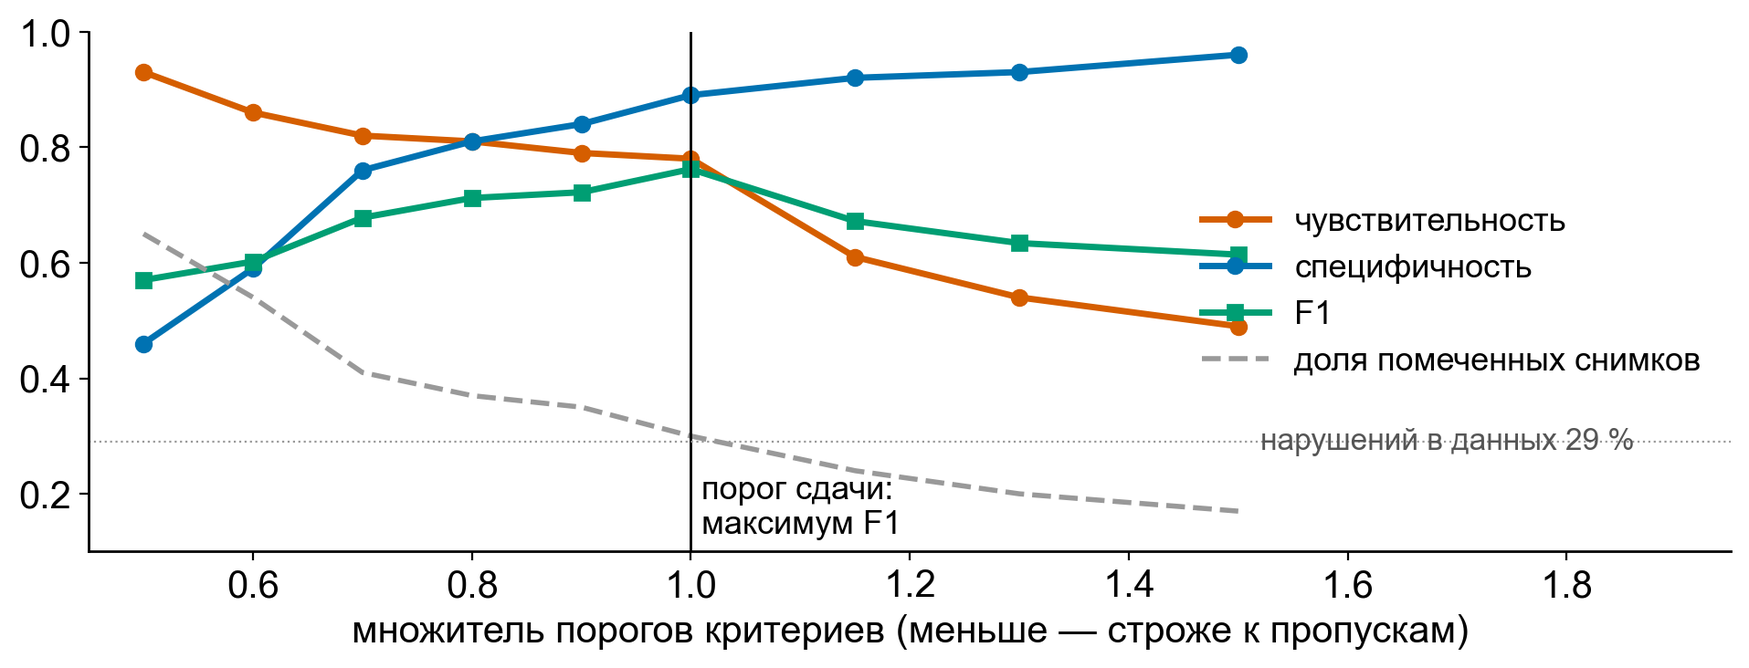
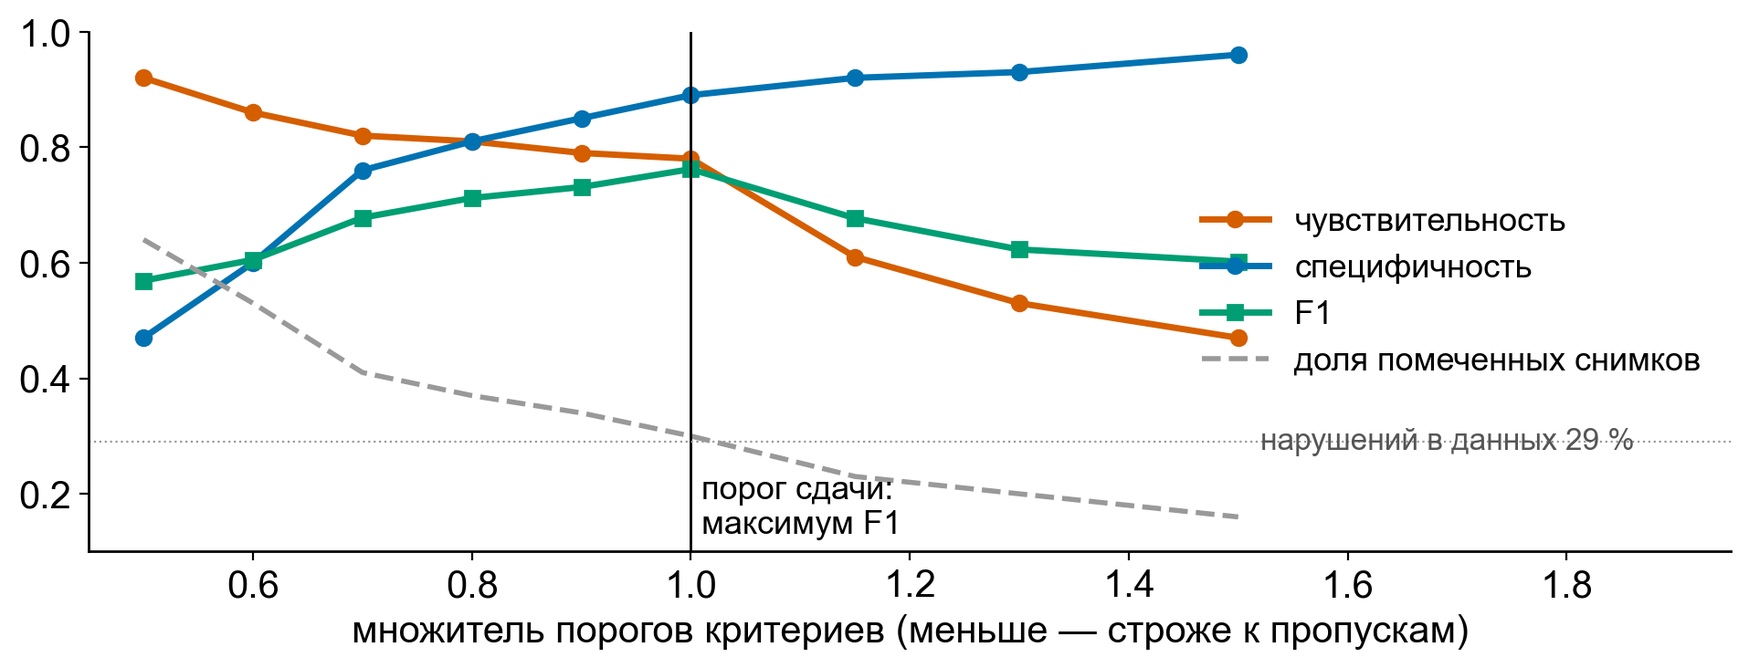
Эксп. 17: вероятность по снимку в общей шкале критериев (ROC-AUC 0,849 → 0,857), пороги в середине отрезка с наибольшим F1
- predict.aggregate: quality_prob = наибольшая вероятность критерия в шкале его порога; quality_prob ≥ 0,5 ⇔ quality_class = 1
- train_criteria.best_f1: середина отрезка порогов с наибольшим F1
- weights/criteria.json, docs/metrics.md, README, docs/08, слайды и рисунки обновлены
- проверены и отклонены: калибровка по областям, подмешивание сетей «любое нарушение», другие наборы предобучения DenseNet121

diff --git a/presentation/make_figures.py b/presentation/make_figures.py
@@ -36,14 +36,14 @@ save("data.png")
 
 # 3. сравнение вариантов модели
 fig, ax = plt.subplots(figsize=(12.2, 3.9))
-st = ["ориентиры +\nгеометрия\n+ 2 CNN", "+ признаки\nпо картинке", "+ ансамбль CNN\nи вырезки\n(бедро)", "+ предобучение\nна object-CXR", "+ яркость\nмягких тканей", "+ карта\nпредметов", "+ DenseNet121\nс рентгено-\nграмм"]
-auc = [0.737, 0.821, 0.822, 0.830, 0.841, 0.845, 0.849]; f1 = [0.583, 0.719, 0.727, 0.740, 0.752, 0.752, 0.762]; mf = [0.535, 0.610, 0.608, 0.627, 0.649, 0.649, 0.653]
+st = ["ориентиры +\nгеометрия\n+ 2 CNN", "+ признаки\nпо картинке", "+ ансамбль CNN\nи вырезки\n(бедро)", "+ предобучение\nна object-CXR", "+ яркость\nмягких тканей", "+ карта\nпредметов", "+ DenseNet121\nс рентгено-\nграмм", "+ общая\nшкала\nкритериев"]
+auc = [0.737, 0.821, 0.822, 0.830, 0.841, 0.845, 0.849, 0.857]; f1 = [0.583, 0.719, 0.727, 0.740, 0.752, 0.752, 0.762, 0.762]; mf = [0.535, 0.610, 0.608, 0.627, 0.649, 0.649, 0.653, 0.653]
 x = np.arange(len(st))
 for v, c, n in ((auc, OURS, "ROC-AUC"), (f1, LIT, "F1"), (mf, GREEN, "macro-F1 по 5 типам")):
     ax.plot(x, v, "-o", color=c, lw=2.5, ms=8, label=n)
     ax.text(x[-1] + 0.12, v[-1], f"{v[-1]:.2f}".replace(".", ","), color=c, va="center", fontsize=15, fontweight="bold")
     ax.text(x[0] - 0.12, v[0], f"{v[0]:.2f}".replace(".", ","), color=c, va="center", ha="right", fontsize=14)
-ax.set_xticks(x); ax.set_xticklabels(st, fontsize=11.5); ax.set_ylim(0.5, 0.9); ax.set_xlim(-0.6, 6.7); ax.legend(frameon=False, loc="lower right", fontsize=14, ncol=3)
+ax.set_xticks(x); ax.set_xticklabels(st, fontsize=11.5); ax.set_ylim(0.5, 0.9); ax.set_xlim(-0.6, 7.7); ax.legend(frameon=False, loc="lower right", fontsize=14, ncol=3)
 ax.set_ylabel("значение метрики")
 save("progress.png")
 
@@ -60,7 +60,7 @@ save("forest.png")
 # 5. бинарные метрики
 fig, ax = plt.subplots(figsize=(11.8, 3.9))
 m = ["ROC-AUC", "PR-AUC", "F1", "Accuracy", "Balanced accuracy", "Чувствительность", "Специфичность"]
-v = [0.849, 0.710, 0.762, 0.859, 0.835, 0.778, 0.893]; lo = [0.782, 0.587, 0.680, 0.820, 0.786, 0.690, 0.847]; hi = [0.906, 0.842, 0.832, 0.899, 0.884, 0.869, 0.935]
+v = [0.857, 0.718, 0.762, 0.859, 0.835, 0.778, 0.893]; lo = [0.802, 0.598, 0.680, 0.820, 0.786, 0.690, 0.847]; hi = [0.907, 0.843, 0.832, 0.899, 0.884, 0.869, 0.935]
 y = np.arange(len(m))[::-1]
 ax.errorbar(v, y, xerr=[np.array(v) - np.array(lo), np.array(hi) - np.array(v)], fmt="s", color=OURS, ecolor=OURS, elinewidth=2.5, capsize=5, ms=9)
 for yi, ai, l, h in zip(y, v, lo, hi): ax.text(1.01, yi, f"{ai:.3f} [{l:.3f}; {h:.3f}]".replace(".", ","), va="center", fontsize=14)
@@ -91,7 +91,7 @@ save("tried.png")
 
 # 8. порог
 fig, ax = plt.subplots(figsize=(11.6, 3.7))
-k = [0.5, 0.6, 0.7, 0.8, 0.9, 1.0, 1.15, 1.3, 1.5]; sens = [0.93, 0.86, 0.82, 0.81, 0.79, 0.78, 0.61, 0.54, 0.49]; spec = [0.46, 0.59, 0.76, 0.81, 0.84, 0.89, 0.92, 0.93, 0.96]; fl = [0.65, 0.54, 0.41, 0.37, 0.35, 0.30, 0.24, 0.20, 0.17]; f1 = [0.570, 0.602, 0.678, 0.712, 0.722, 0.762, 0.672, 0.634, 0.614]
+k = [0.5, 0.6, 0.7, 0.8, 0.9, 1.0, 1.15, 1.3, 1.5]; sens = [0.92, 0.86, 0.82, 0.81, 0.79, 0.78, 0.61, 0.53, 0.47]; spec = [0.47, 0.60, 0.76, 0.81, 0.85, 0.89, 0.92, 0.93, 0.96]; fl = [0.64, 0.53, 0.41, 0.37, 0.34, 0.30, 0.23, 0.20, 0.16]; f1 = [0.569, 0.605, 0.678, 0.712, 0.731, 0.762, 0.677, 0.623, 0.602]
 ax.plot(k, sens, "-o", color=OURS, lw=2.5, label="чувствительность"); ax.plot(k, spec, "-o", color=LIT, lw=2.5, label="специфичность")
 ax.plot(k, f1, "-s", color=GREEN, lw=2.5, label="F1"); ax.plot(k, fl, "--", color=NEUT, lw=2, label="доля помеченных снимков")
 ax.axvline(1.0, color="black", lw=1); ax.text(1.01, 0.12, "порог сдачи:\nмаксимум F1", fontsize=13, va="bottom")

diff --git a/src/dxaqc/predict.py b/src/dxaqc/predict.py
@@ -11,6 +11,7 @@
 from __future__ import annotations
 
 import json
+import math
 import os
 from dataclasses import dataclass, field
 
@@ -128,17 +129,27 @@ class Verdict:
     review_flags: list[str] = field(default_factory=list)
 
 
+def relative_prob(p: float, threshold: float) -> float:
+    """Вероятность критерия в шкале, где его порог равен 0,5: logit(p') = logit(p) − logit(порог).
+    Пороги критериев разные (0,48–0,89), поэтому без приведения критерий с высоким порогом завышал бы итог по снимку."""
+    p = min(max(float(p), 1e-6), 1.0 - 1e-6)
+    t = min(max(float(threshold), 1e-6), 1.0 - 1e-6)
+    z = math.log(p / (1.0 - p)) - math.log(t / (1.0 - t))
+    return 1.0 / (1.0 + math.exp(-z))
+
+
 def aggregate(flag_probs: dict[str, float], thresholds: dict[str, float] | None = None) -> Verdict:
     """Вероятности критериев → итог по снимку.
 
-    quality_class = 1, если хотя бы один критерий выше своего порога (правило организатора: любое
-    нарушение → снимок с нарушением). quality_prob = вероятность «есть хоть одно нарушение»:
-    1 − ∏(1 − p_i) — растёт с каждым подозрительным критерием, не раздувается от их числа.
+    quality_class = 1, если хотя бы один критерий не ниже своего порога (правило организатора: любое
+    нарушение → снимок с нарушением). quality_prob — наибольшая из вероятностей критериев, приведённых
+    к общей шкале (порог критерия = 0,5). Поэтому quality_prob ≥ 0,5 тогда и только тогда, когда quality_class = 1.
+    На снимках вне обучения это правило даёт ROC-AUC 0,858 против 0,849 у 1 − ∏(1 − p_i) (docs/08, эксп. 17).
     """
     thresholds = thresholds or {}
     positive = {f: p >= thresholds.get(f, DEFAULT_THRESHOLD) for f, p in flag_probs.items()}
-    prob = 1.0 - float(np.prod([1.0 - min(max(p, 0.0), 1.0) for p in flag_probs.values()])) if flag_probs else 0.0
-    if any(positive.values()):                       # порог пройден → вероятность не ниже 0,5, чтобы класс и prob не спорили
+    prob = max((relative_prob(p, thresholds.get(f, DEFAULT_THRESHOLD)) for f, p in flag_probs.items()), default=0.0)
+    if any(positive.values()):                       # защита от округления на самой границе порога
         prob = max(prob, 0.5)
     near = [f for f, p in flag_probs.items() if abs(p - thresholds.get(f, DEFAULT_THRESHOLD)) < REVIEW_BAND]
     return Verdict(

diff --git a/tests/test_infer.py b/tests/test_infer.py
@@ -31,9 +31,15 @@ def test_aggregate_uses_official_wording_and_any_rule():
     v = aggregate({"spine_positioning": 0.1, "spine_axis_tilt": 0.9, "spine_artifact": 0.7})
     assert v.quality_class == 1
     assert v.violation_type == "Не выровнена ось позвоночника;Присутствуют посторонние предметы"
-    assert v.quality_prob == 0.973          # 1 − (1−0,1)(1−0,9)(1−0,7): два подозрительных критерия > одного
+    assert v.quality_prob == 0.9            # наибольшая вероятность критерия в шкале, где порог равен 0,5
     clean = aggregate({"hip_positioning_rotation": 0.2, "hip_roi_field": 0.1})
     assert (clean.quality_class, clean.violation_type) == (0, "")
+    assert clean.quality_prob < 0.5
+    # разные пороги: вероятность снимка не ниже 0,5 тогда и только тогда, когда сработал хотя бы один критерий
+    thr = {"hip_positioning_rotation": 0.53, "hip_roi_field": 0.89}
+    assert aggregate({"hip_positioning_rotation": 0.40, "hip_roi_field": 0.80}, thr).quality_prob < 0.5
+    hit = aggregate({"hip_positioning_rotation": 0.40, "hip_roi_field": 0.90}, thr)
+    assert hit.quality_class == 1 and hit.quality_prob >= 0.5
     assert set(v.violation_type.split(";")) <= set(VIOLATION_TEXT.values())
 
 

diff --git a/scripts/train_criteria.py b/scripts/train_criteria.py
@@ -147,12 +147,15 @@ def ci(metric, y, p, groups, n=1000, seed=0):
 
 
 def best_f1(y, p):
-    best = (0.0, 0.5)
-    for t in np.linspace(0.05, 0.95, 91):
-        f = f1_score(y, p >= t, zero_division=0)
-        if f > best[0]:
-            best = (f, float(t))
-    return best
+    """Порог с наибольшим F1. Если наибольший F1 держится на отрезке порогов, берётся середина отрезка:
+    порог на краю отрезка первым ломается при малом сдвиге вероятностей на новых снимках."""
+    grid = np.linspace(0.05, 0.95, 91)
+    f = np.array([f1_score(y, p >= t, zero_division=0) for t in grid])
+    k = int(np.argmax(f))
+    e = k
+    while e + 1 < len(grid) and f[e + 1] >= f[k] - 1e-12:
+        e += 1
+    return float(f[k]), float(grid[(k + e) // 2])
 
 
 def main():

diff --git a/docs/08_Рисерч_что_ещё.md b/docs/08_Рисерч_что_ещё.md
@@ -68,6 +68,7 @@
 | **15** | **Детектор предметов как карта** (`experiments/exp13_objectcxr_heatmap.py`): ResNet18+FPN → тепловая карта, обучен на масках object-CXR (8000 снимков, val AUC 0,90), к DXA применён **без дообучения** | на DXA сырой AUC максимума карты 0,84, площади вне столба 0,81; в связке top-hat + CNN + карта: предметы **0,90 → 0,92**; карта показывает предмет на снимке (дуги у углов, объект у края, вуаль) | **взято в бой** (`ObjMapScorer`, признаки `om_max_all`, `om_area`, рамки в details/оверлее). Итог по снимку: AUC 0,845, F1 0,752, acc 0,851, macro-F1 0,649. Это и метрика, и объяснимость «вот предмет» |
 | 11 | RadImageNet-инициализация ResNet50 vs ImageNet (`--init`) | вырезка вертела: ImageNet 0.821 / RadImageNet 0.809; предметы @320: 0.848 / 0.549; «любое» бедро: 0.840 / 0.736 | RadImageNet **не помогает**, у предметов сильно хуже (предобучка на КТ/МРТ/УЗИ не про тонкие линии); ImageNet остаётся. Побочно: ResNet50-ImageNet @320 по предметам 0.848 ≈ ResNet18 @512 (0,83) |
 | **16** | **Крупные и трансформерные сети, веса с рентгенограмм** (28.09; `--arch timm:<имя>`, `--arch xrv:densenet121-res224-all`; сравнение — `experiments/exp16_architectures.py`). Одинаковые разбиения по исследованиям, 25 эпох | **Вырезка малого вертела (150 снимков):** ResNet18 0,824 · ResNet50 0,821 · EfficientNetV2-S 0,819 · DenseNet121-ImageNet 0,815 · SE-ResNeXt50 0,807 · EfficientNet-B0 0,804 · RegNetY-032 0,795 · DINOv2 ViT-S/14 0,702 · **DenseNet121 с рентгенограмм грудной клетки (TorchXRayVision): 0,860 / 0,858 (40 эпох) / 0,877 (другое разбиение)**; та же сеть на вырезке седалищной кости 0,844, проксимального отдела 0,838, по всему кадру 0,798. **Предметы (99 снимков):** ResNet18 object-CXR 0,855 · ResNet50 0,848 · EfficientNet-B0 0,801 · DenseNet121-ImageNet 0,762 · EfficientNetV2-S@512 0,766 · DINOv2 ViT-S@448 0,649 · DenseNet121-рентген 0,45 и 0,40 (шаг 2e-4 и 5e-5). **Редкие критерии, DenseNet121-рентген по кадру:** укладка позвоночника 0,763 (измерения 0,901), ось 0,511 (измерения 0,799), поле ROI 0,755 (измерения 0,827). **В ансамбле по бедру:** любая сеть с ImageNet меняет ROC-AUC критерия на ±0,01; боевой + 3 DenseNet121-рентген (вертел, седалищная, проксимальный отдел) 0,866 → 0,873, парная разница +0,007 [−0,003; +0,019]; боевой + все 8 сетей DenseNet121-рентген 0,876, разница +0,011 [−0,007; +0,033]; по снимку ROC-AUC 0,845 → 0,849–0,851, F1 0,752 → 0,762, accuracy 0,851 → 0,859 (два снимка из 249) | **размер сети прироста не даёт** (9–26 млн параметров и трансформер не лучше ResNet18 на 99–150 снимках). **Предобучение на рентгенограммах помогает там, где признак — форма кости** (+0,045 одной сети на той же архитектуре), и мешает на посторонних предметах: сети, обученные ставить диагноз по рентгенограмме, приучены не замечать провода и застёжки; для предметов работает предобучение на задаче «есть ли предмет» (эксп. 12). На редких критериях (5–10 снимков с нарушением) сеть уступает измерениям. ConvNeXt-Tiny на вырезке вертела 0,802 (обучение на CPU, 1,5 часа). **Взято в модель 1.0.0 решением владельца 28.09:** три сети DenseNet121-рентген (вертел, седалищная кость, проксимальный отдел) добавлены к семи сетям по бедру. Итог по снимку: ROC-AUC 0,849 [0,782; 0,906], F1 0,762, accuracy 0,859, macro-F1 0,653. Прирост лежит внутри доверительного интервала, направление прироста одинаково в 93 % повторов бутстрепа. Трансформеры и ConvNeXt на Apple MPS (torch 2.5.1) падают в обратном проходе — обучение на CPU |
+| **17** | **Итоговая вероятность снимка в общей шкале критериев** (28.09, без обучения). Пороги критериев разные (0,48–0,89), поэтому в правиле 1 − ∏(1 − pᵢ) критерий с высоким порогом (поле ROI, укладка позвоночника) завышал вероятность у нормальных снимков. Вероятность критерия приводится к шкале, где его порог равен 0,5: logit(p′) = logit(p) − logit(порог); итог по снимку — наибольшая p′ | ROC-AUC по снимку 0,849 → **0,857** [0,802; 0,907], PR-AUC 0,710 → 0,718; бедро 0,852 → 0,875, позвоночник 0,840 → 0,820. На предыдущей модели тот же эффект: 0,845 → 0,851–0,855. Класс, типы нарушений и F1 не меняются. Доля снимков, у которых «вероятность ≥ 0,5» совпадает с вердиктом: 70 % → 100 %. Проверено и отклонено там же: калибровка Платта по областям (0,828–0,837), подмешивание сетей «любое нарушение бедра» (бедро +0,01, общий ROC-AUC −0,01…−0,03), отказ от признака оси диафиза в критерии укладки бедра (±0,005) | **взято в модель**: `predict.aggregate`, `predict.relative_prob`. Параметров для подбора нет — используются уже выбранные пороги. Заодно порог критерия теперь берётся в середине отрезка с наибольшим F1 (было — на нижнем краю): 0,75 → 0,76, 0,53 → 0,54, 0,89 → 0,90; метрики вне обучения от этого не меняются, запас до края отрезка растёт |
 
 ## 5. Что рекомендую дальше (по убыванию ценности на оставшиеся дни)
 
@@ -90,9 +91,9 @@
 |---|---|---|---|---|---|---|---|
 | **F1-оптимум (сдача)** | 0,78 | 0,89 | 0,75 | **0,762** | **0,859** | 30 % | **0,653** |
 | ×0,8 | 0,81 | 0,81 | 0,64 | 0,712 | 0,811 | 37 % | 0,562 |
-| ×0,6 | 0,86 | 0,59 | 0,46 | 0,602 | 0,671 | 54 % | 0,462 |
+| ×0,6 | 0,86 | 0,60 | 0,47 | 0,605 | 0,675 | 53 % | 0,464 |
 | чувствительный (recall ≥ 0,9 по критерию) | 0,94 | 0,38 | 0,38 | 0,544 | 0,542 | 71 % | — |
-| ×1,3 (специфичный) | 0,54 | 0,93 | 0,76 | 0,634 | 0,819 | 20 % | 0,326 |
+| ×1,3 (специфичный) | 0,53 | 0,93 | 0,76 | 0,623 | 0,815 | 20 % | 0,322 |
 
 **Клиническая логика.** Цена пропуска: снимок с нарушением укладки идёт в расчёт МПК — ротация бедра меняет BMD шейки на
 несколько процентов, срез поля или не те позвонки смещают T-критерий, ошибка тянется в динамику. Цена ложной тревоги:
@@ -101,10 +102,10 @@
 
 **Решение.** (1) По умолчанию — F1-оптимум: он же максимум accuracy и macro-F1, помечается 30 % снимков при 29 % нарушений в данных,
 то есть нагрузка на проверяющего равна реальной частоте проблемы. (2) Мягкий уклон в чувствительность даёт не порог, а
-**зона сомнения** `needs_review` (критерий в ±0,10 от порога): 16 % снимков уходят на взгляд врача (accuracy вне зоны 0,87, в зоне 0,83).
+**зона сомнения** `needs_review` (критерий в ±0,10 от порога): 18 % снимков уходят на взгляд врача (accuracy вне зоны 0,87, в зоне 0,82).
 (3) Для клиники, где пропуск дороже перепроверки, есть режим `sensitive` (`--mode sensitive`): recall ≥ 0,9 по каждому критерию,
 чувствительность 0,94 при специфичности 0,38 — это осознанный выбор заказчика, не значение по умолчанию.
-(4) Ранжирование (`quality_prob`, ROC-AUC 0,849) от порога не зависит: для аудита качества по кабинетам/лаборантам достаточно сортировки.
+(4) Ранжирование (`quality_prob`, ROC-AUC 0,857) считается в шкале выбранных порогов: для аудита качества по кабинетам/лаборантам достаточно сортировки.
 
 ## Источники
 

diff --git a/README.md b/README.md
@@ -182,9 +182,12 @@ curl -F "files=@study.zip" http://localhost:8000/api/analyze
    10 сетей по укладке бедра: кадр целиком и вырезки вокруг малого вертела, седалищной кости, проксимального отдела
    (семь сетей ResNet18 и EfficientNet-B0, три сети DenseNet121 с весами рентгенограмм грудной клетки TorchXRayVision),
    карта предметов (обучена на масках object-CXR, на DXA применяется без дообучения).
-4. **Логистическая регрессия по каждому критерию** на 2–4 признаках; пороги выбраны по максимуму F1 на снимках вне обучения.
+4. **Логистическая регрессия по каждому критерию** на 2–4 признаках; пороги выбраны по максимуму F1 на снимках вне обучения
+   (если максимум держится на отрезке порогов, берётся середина отрезка).
 
-Постобработка: `quality_class = 1`, если хотя бы один критерий выше своего порога; `quality_prob = 1 − ∏(1 − pᵢ)`;
+Постобработка: `quality_class = 1`, если хотя бы один критерий не ниже своего порога. `quality_prob` — наибольшая из вероятностей
+критериев, приведённых к общей шкале, в которой порог критерия равен 0,5: `logit(p′) = logit(p) − logit(порог)`. Поэтому
+`quality_prob ≥ 0,5` тогда и только тогда, когда `quality_class = 1`;
 критерий в пределах ±0,10 от порога даёт отметку `needs_review`. Обучение и воспроизведение — [docs/TRAINING.md](docs/TRAINING.md),
 архитектура — [docs/04_Архитектура.md](docs/04_Архитектура.md).
 
@@ -194,8 +197,8 @@ curl -F "files=@study.zip" http://localhost:8000/api/analyze
 
 | Метрика (есть ли нарушение на снимке) | Значение [95 % ДИ] |
 |---|---|
-| ROC-AUC | 0,849 [0,782; 0,906] |
-| PR-AUC | 0,710 [0,587; 0,842] |
+| ROC-AUC | 0,857 [0,802; 0,907] |
+| PR-AUC | 0,718 [0,598; 0,843] |
 | F1 | 0,762 [0,680; 0,832] |
 | Accuracy | 0,859 [0,820; 0,899] |
 | Balanced accuracy | 0,835 [0,786; 0,884] |

diff --git a/docs/DEMO.md b/docs/DEMO.md
@@ -25,10 +25,10 @@ git clone https://github.com/YODA02041994/lct2026-dxa-quality && cd lct2026-dxa-
 |---|---|---|---|---|
 | `CR000000_ПОП.dcm` | поясничный отдел позвоночника | нарушение | Присутствуют посторонние предметы | 1,00 / 1,00 |
 | `CR000000_ППОБ.dcm` | проксимальный отдел бедра (R) | нарушение | Некорректная укладка | 0,97 / 0,96 |
-| `CR000001_ЛПОБ.dcm` | проксимальный отдел бедра (L) | нарушение | Некорректная укладка | 0,91 / 0,85 |
+| `CR000001_ЛПОБ.dcm` | проксимальный отдел бедра (L) | нарушение | Некорректная укладка | 0,89 / 0,81 |
 
 Прототип работает на сервере с 2 ядрами в экономном режиме (`DXAQC_NETS_PER_FILE=1`: одна сеть из каждого файла весов),
-контейнер по умолчанию считает полный ансамбль, поэтому вероятности отличаются на сотые; класс и тип нарушения совпадают.
+контейнер по умолчанию считает полный ансамбль, поэтому вероятности отличаются; класс и тип нарушения совпадают.
 
 Под типом нарушения выводятся протокол измерений (угол оси, запасы до краёв кадра, видимость Th12 и гребней)
 и совет лаборанту, что исправить при пересъёмке.

diff --git a/STATUS.md b/STATUS.md
@@ -5,7 +5,9 @@
 **Обновлено:** 28.09.2026 · **Чей ход:** владелец (слить PR #36, открыть репозиторий, отправить форму) · **Веха:** M4 «Сдача» — срок 29.09 18:00 (стоп-код 23:59)
 
 ## Готово к сдаче (28.09)
-- Версия 1.0.0. Метрики вне обучения (249 снимков): ROC-AUC 0,849 [0,782; 0,906], F1 0,762, accuracy 0,859, macro-F1 0,653; по типам ROC-AUC 0,80–0,92 (`docs/metrics.md`)
+- Версия 1.0.0. Метрики вне обучения (249 снимков): ROC-AUC 0,857 [0,802; 0,907], F1 0,762, accuracy 0,859, macro-F1 0,653; по типам ROC-AUC 0,80–0,92 (`docs/metrics.md`)
+- Эксп. 17 (28.09 вечер): вероятность по снимку считается в общей шкале критериев (порог критерия = 0,5) — ROC-AUC 0,849 → 0,857;
+  `quality_prob ≥ 0,5` строго равносильно `quality_class = 1`; пороги берутся в середине отрезка с наибольшим F1
 - Модель: 28.09 решением владельца в ансамбль по бедру добавлены три сети DenseNet121 с весами рентгенограмм грудной клетки (эксп. 16);
   веса — Release `v1.0.0` (18 файлов, 0,9 ГБ); стенд обновлён, предыдущая версия сохранена на сервере в `/opt/dxaqc/backup_v030`
 - Документация по п. 5 ТЗ: `README.md`, `docs/USER_GUIDE.md`, `docs/DEPLOY.md`, `docs/TRAINING.md`, `docs/DEMO.md`

diff --git a/docs/metrics.md b/docs/metrics.md
@@ -6,8 +6,8 @@
 
 | метрика | значение [95 % ДИ] |
 |---|---|
-| ROC-AUC | 0.849 [0.782–0.906] |
-| PR-AUC | 0.710 [0.587–0.842] |
+| ROC-AUC | 0.857 [0.802–0.907] |
+| PR-AUC | 0.718 [0.598–0.843] |
 | F1 | 0.762 [0.680–0.832] |
 | Accuracy | 0.859 [0.820–0.899] |
 | Balanced accuracy | 0.835 [0.786–0.884] |
@@ -20,10 +20,10 @@
 
 | тип (официальное название) | n | + | ROC-AUC | F1 | порог |
 |---|---|---|---|---|---|
-| Некорректная укладка (spine_positioning) | 99 | 6 | 0.901 | 0.667 | 0.75 |
+| Некорректная укладка (spine_positioning) | 99 | 6 | 0.901 | 0.667 | 0.76 |
 | Не выровнена ось позвоночника (spine_axis_tilt) | 99 | 10 | 0.799 | 0.400 | 0.66 |
 | Присутствуют посторонние предметы (spine_artifact) | 99 | 17 | 0.922 | 0.778 | 0.48 |
-| Некорректная укладка (hip_positioning_rotation) | 150 | 36 | 0.873 | 0.753 | 0.53 |
-| Некорректная область интереса (hip_roi_field) | 150 | 7 | 0.827 | 0.667 | 0.89 |
+| Некорректная укладка (hip_positioning_rotation) | 150 | 36 | 0.873 | 0.753 | 0.54 |
+| Некорректная область интереса (hip_roi_field) | 150 | 7 | 0.827 | 0.667 | 0.90 |
 
 **Macro-F1 по 5 типам: 0.653**
